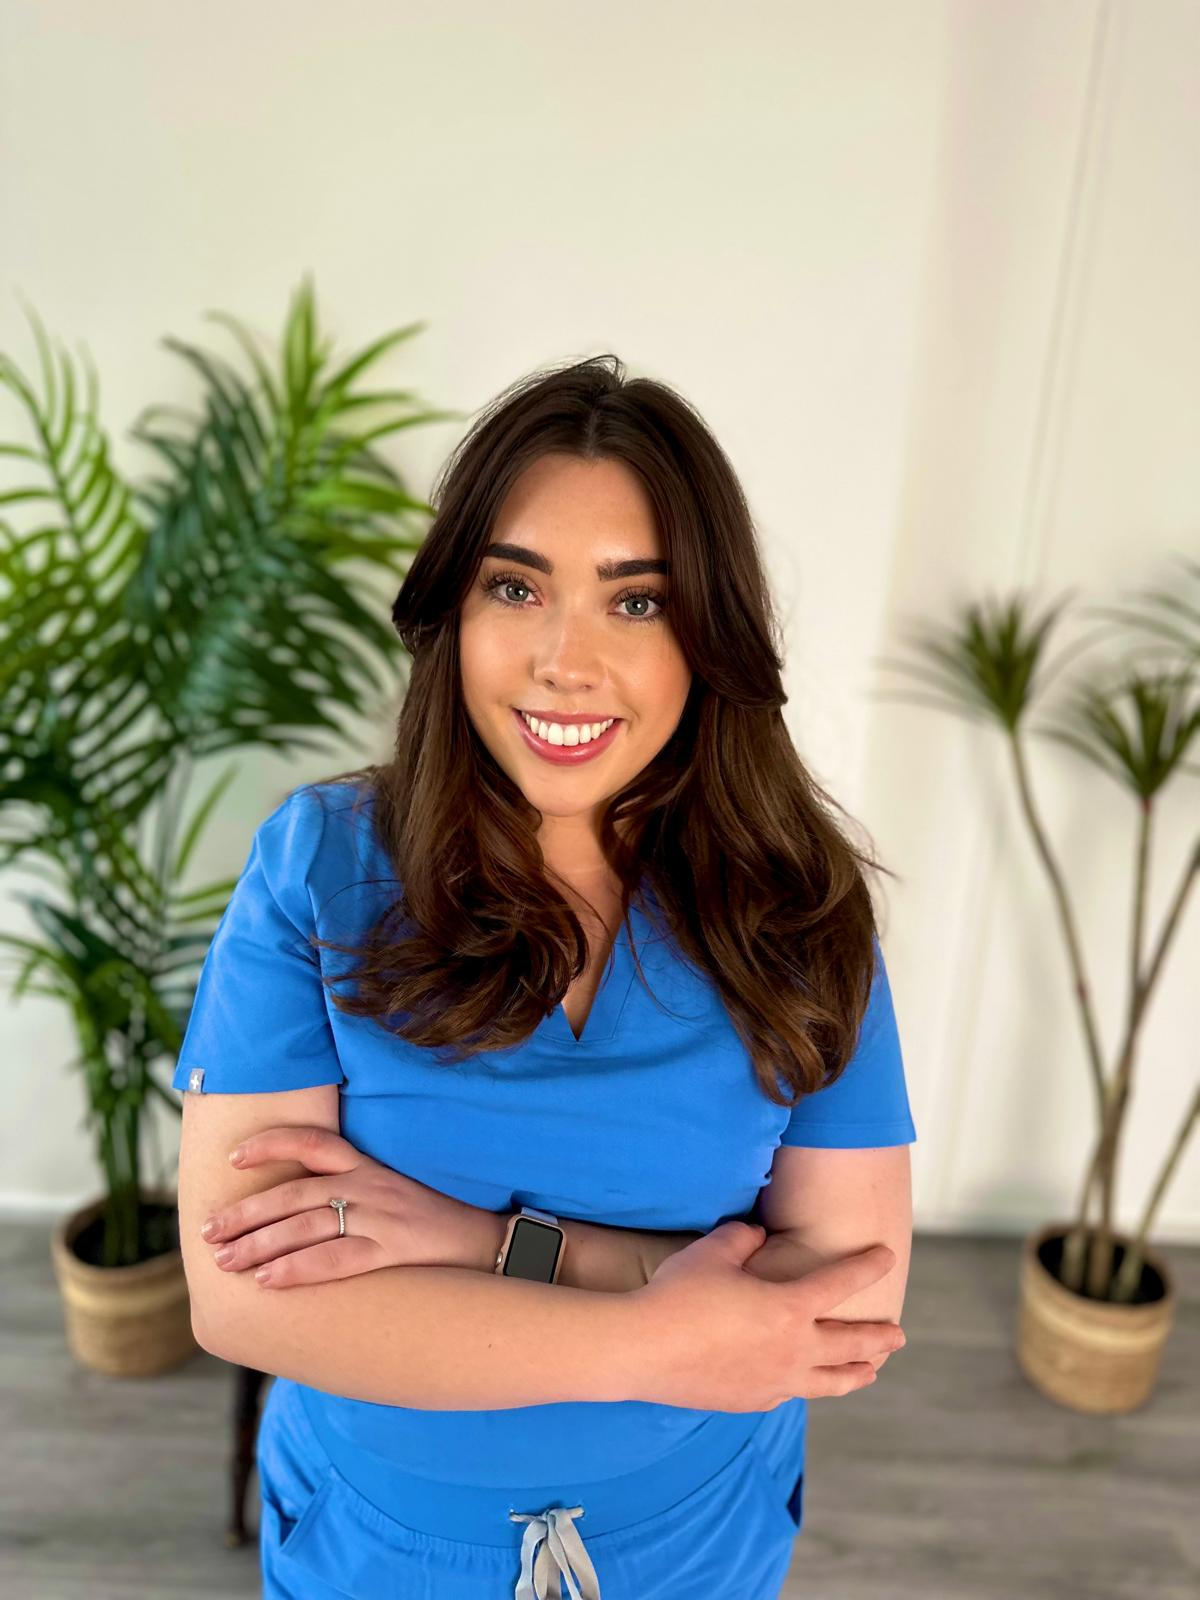
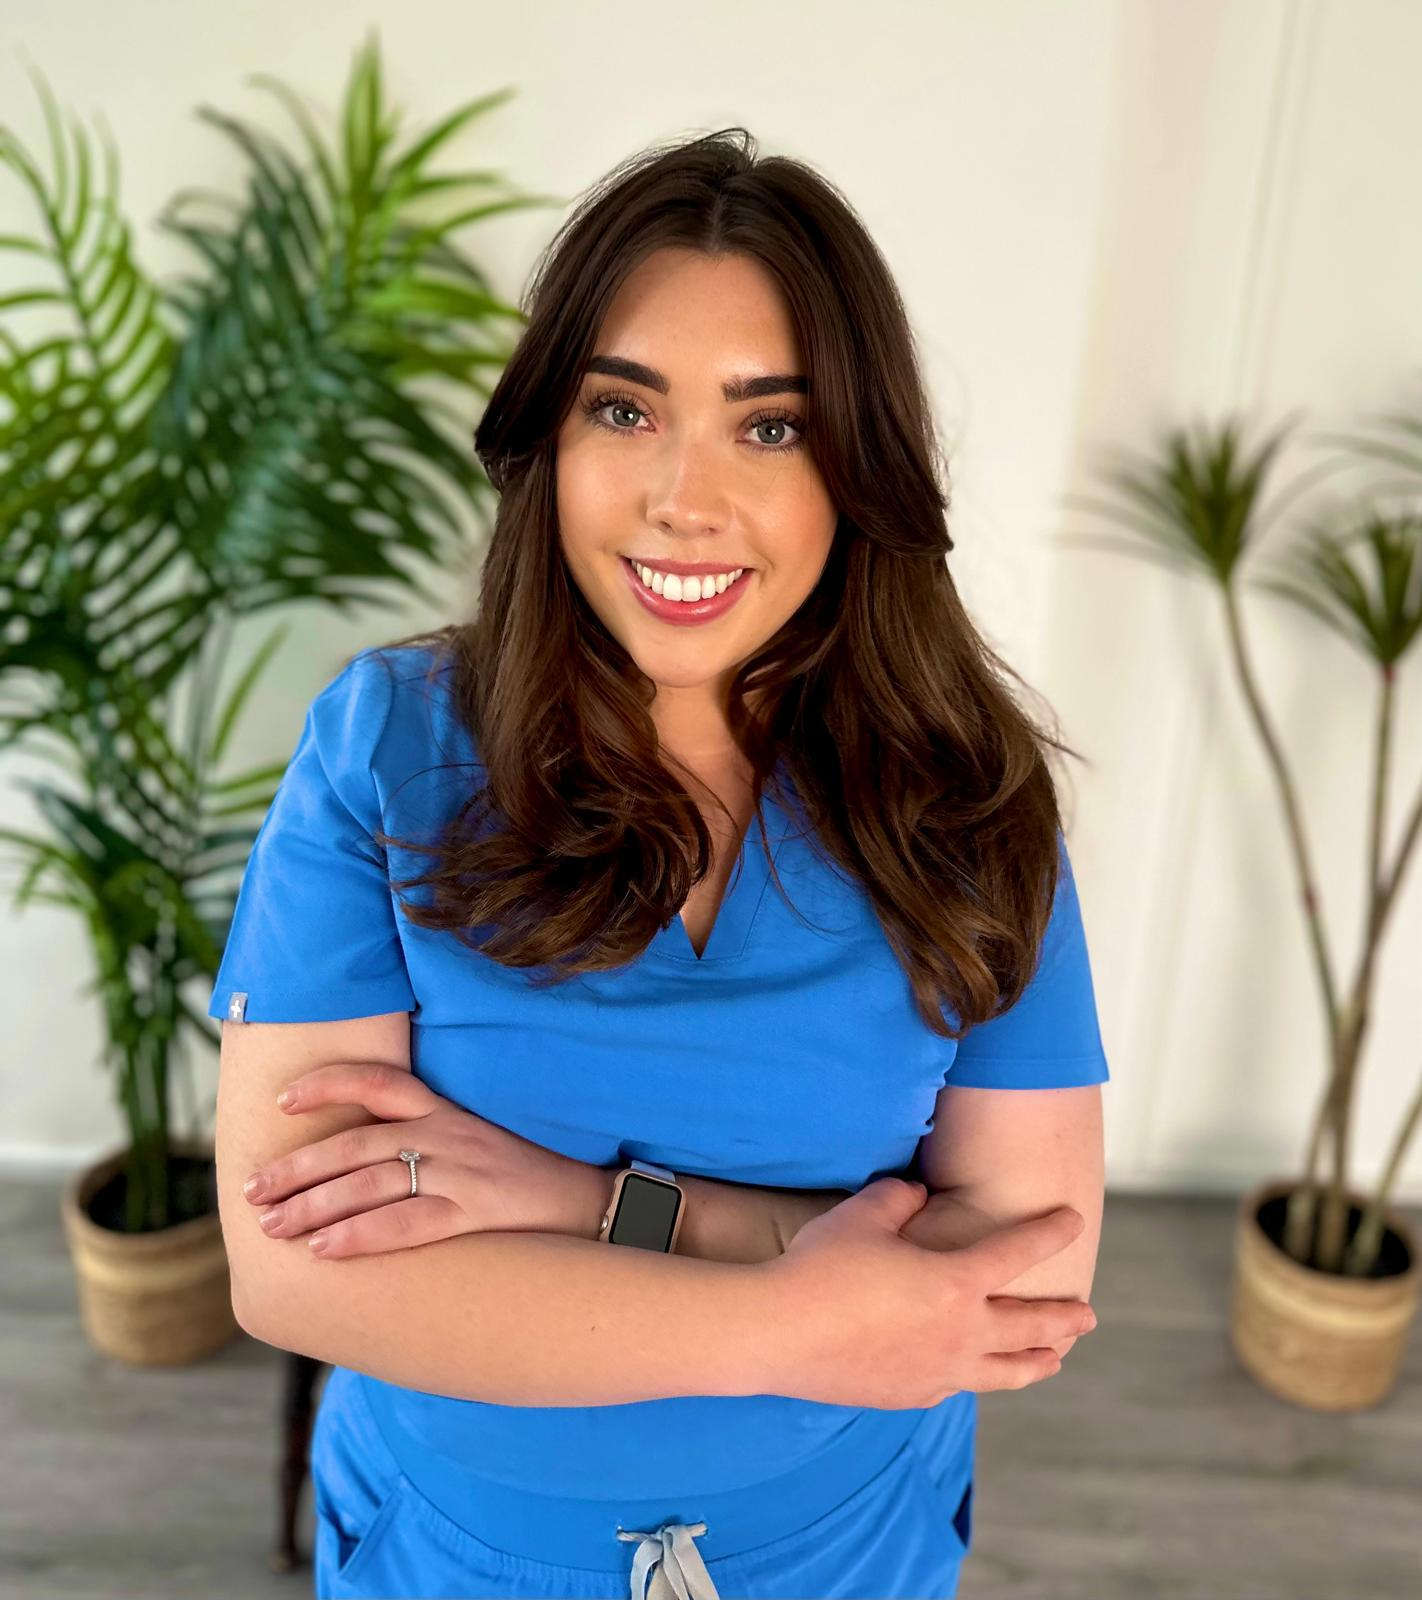
style: update Georgia photo and improve portrait centering

diff --git a/css/styles.css b/css/styles.css
@@ -723,7 +723,7 @@ nav {
 .founder-portrait {
   width: 100%; height: 100%;
   object-fit: cover;
-  object-position: center top;
+  object-position: center 20%;
 }
 .founder-card-name {
   font-family: 'DM Serif Display', serif;
